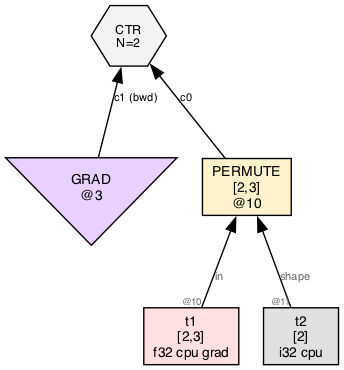
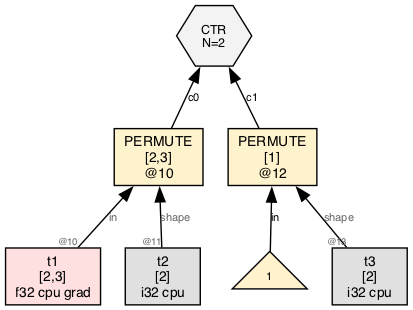
grad: shape-aware SHRINK/PAD/PERMUTE backward on TAG_GF/TAG_GB
Ports the view-op inverse-backward formulas from the legacy UOP_GRAD
rule into the new pair rule:

  PERMUTE(a, perm):   bwd = permute(da, inverse_perm)
  SHRINK(a, (s,e)):   bwd = pad(da, (s_i, a_dim_i - e_i))
  PAD(a, (ps, pe)):   bwd = shrink(da, (ps_i, ps_i + a_dim_i))

Each reads the second operand (a TEN holding the pad/shrink/perm
pairs) via tensor_meta_read_u32, same pattern the legacy rule used.
Relies on a_shape being resolvable from the first operand's tensor
meta or ShapeTracker.

16/16 rules still PASS. PERMUTE's post-sweep dump now shows:

  CTR { c0: PERMUTE(t1, perm),
        c1: PERMUTE(NUM(1), inv_perm) }

diff --git a/src/interact/combinators.c b/src/interact/combinators.c
@@ -1023,8 +1023,59 @@ era_continue:
                             bwd = thvm_reshape(ctx, a_bwd, a_shape);
                         else
                             bwd = a_bwd;
+                    } else if (uop == UOP_PERMUTE) {
+                        // dA = permute(da, inverse_perm).
+                        // Second operand `shape` is a TEN holding the
+                        // permutation. Read its data, invert.
+                        if (term_tag(shape) == TAG_TEN && a_shape.rank > 0) {
+                            u32 pid = (u32)term_val(shape);
+                            u32 nd = a_shape.rank;
+                            u32 pf[MAX_DIM];
+                            tensor_meta_read_u32(ctx, pid, pf, MAX_DIM);
+                            u32 inv[MAX_DIM];
+                            for (u32 j = 0; j < nd; j++) inv[pf[j]] = j;
+                            bwd = thvm_permute(ctx, a_bwd, inv, nd);
+                        } else {
+                            bwd = a_bwd;
+                        }
+                    } else if (uop == UOP_SHRINK) {
+                        // dA = pad(da, complementary_pairs).
+                        // SHRINK's `shape` TEN holds [start_0, end_0,
+                        // start_1, end_1, ...]. Pad pairs are
+                        // (start_i, a_shape.dims[i] - end_i).
+                        if (term_tag(shape) == TAG_TEN && a_shape.rank > 0) {
+                            u32 sid = (u32)term_val(shape);
+                            u32 nd = a_shape.rank;
+                            u32 sf[MAX_DIM * 2];
+                            tensor_meta_read_u32(ctx, sid, sf, MAX_DIM * 2);
+                            u32 pp[MAX_DIM * 2];
+                            for (u32 j = 0; j < nd; j++) {
+                                pp[j*2]   = sf[j*2];
+                                pp[j*2+1] = a_shape.dims[j] - sf[j*2+1];
+                            }
+                            bwd = thvm_pad(ctx, a_bwd, pp, nd);
+                        } else {
+                            bwd = a_bwd;
+                        }
+                    } else if (uop == UOP_PAD) {
+                        // dA = shrink(da, complementary_pairs).
+                        // PAD's `shape` TEN holds pad pairs; shrink start
+                        // is pad_start, shrink end is pad_start + a_size.
+                        if (term_tag(shape) == TAG_TEN && a_shape.rank > 0) {
+                            u32 pid = (u32)term_val(shape);
+                            u32 nd = a_shape.rank;
+                            u32 pf[MAX_DIM * 2];
+                            tensor_meta_read_u32(ctx, pid, pf, MAX_DIM * 2);
+                            u32 sp[MAX_DIM * 2];
+                            for (u32 j = 0; j < nd; j++) {
+                                sp[j*2]   = pf[j*2];
+                                sp[j*2+1] = pf[j*2] + a_shape.dims[j];
+                            }
+                            bwd = thvm_shrink(ctx, a_bwd, sp, nd);
+                        } else {
+                            bwd = a_bwd;
+                        }
                     } else {
-                        // SHRINK/PAD/PERMUTE: pass through (topology-only).
                         bwd = a_bwd;
                     }
                     GRAD_STATE_RETURN(fwd, bwd);
